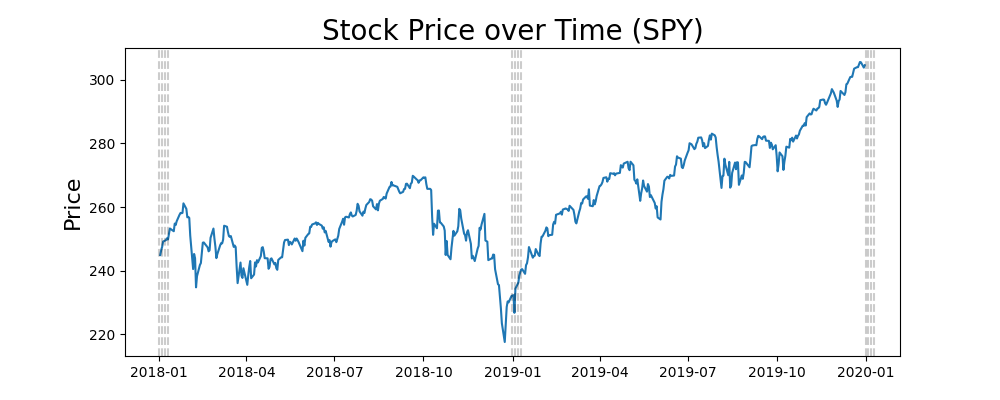
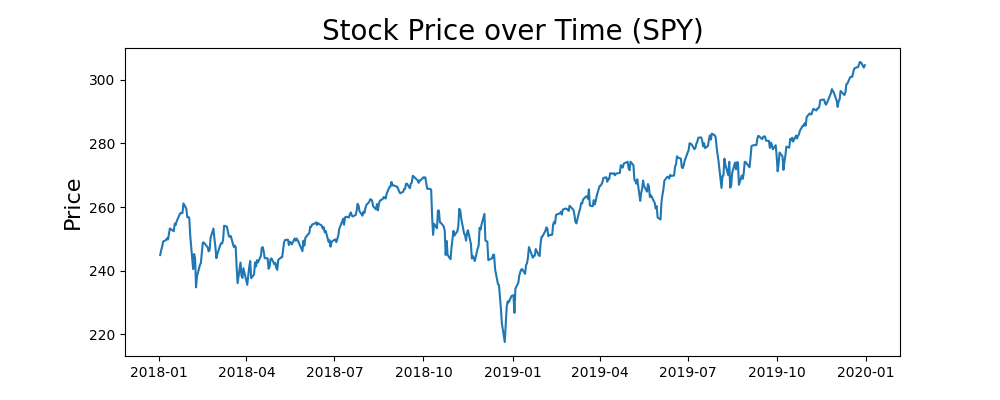
update 46

diff --git a/algorithm/convert_to_stationary_acf_pacf.py b/algorithm/convert_to_stationary_acf_pacf.py
@@ -11,10 +11,4 @@ plt.figure(figsize=(10,4))
 plt.plot(tickerDf.Close)
 plt.title('Stock Price over Time (%s)'%ticker_symbol, fontsize=20)
 plt.ylabel('Price', fontsize=16)
-for year in range(2018,2021):
-    plt.axvline(pd.to_datetime(str(year)+'-01-01'), color='k', linestyle='--', alpha=0.2)
-    plt.axvline(pd.to_datetime(str(year)+'-01-04'), color='k', linestyle='--', alpha=0.2)
-    plt.axvline(pd.to_datetime(str(year)+'-01-07'), color='k', linestyle='--', alpha=0.2)
-    plt.axvline(pd.to_datetime(str(year)+'-01-10'), color='k', linestyle='--', alpha=0.2)
-
 plt.savefig('plot1.png')
